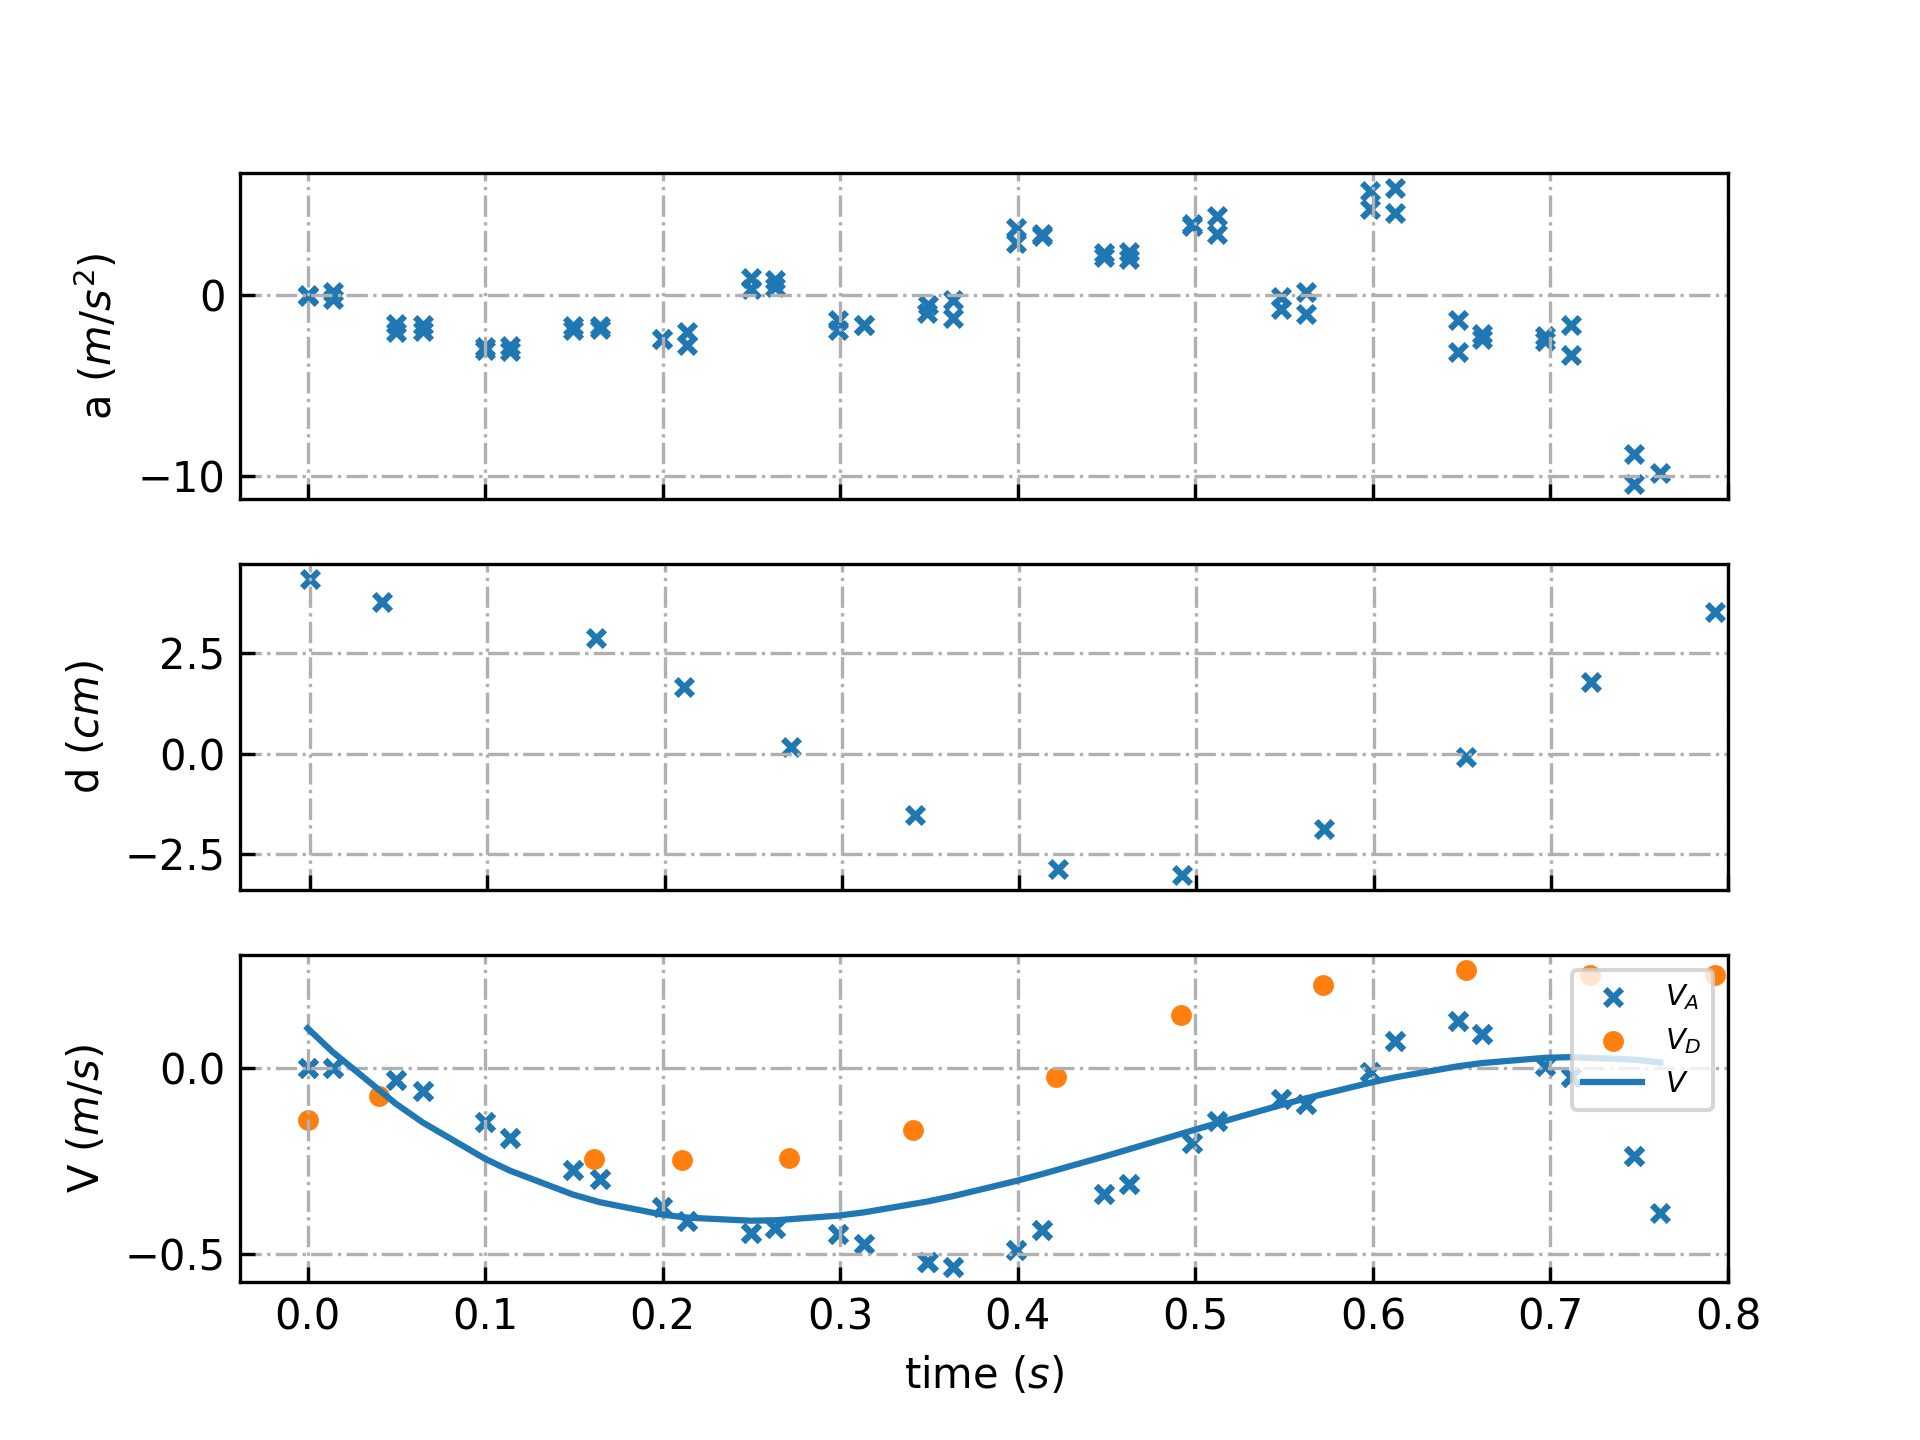
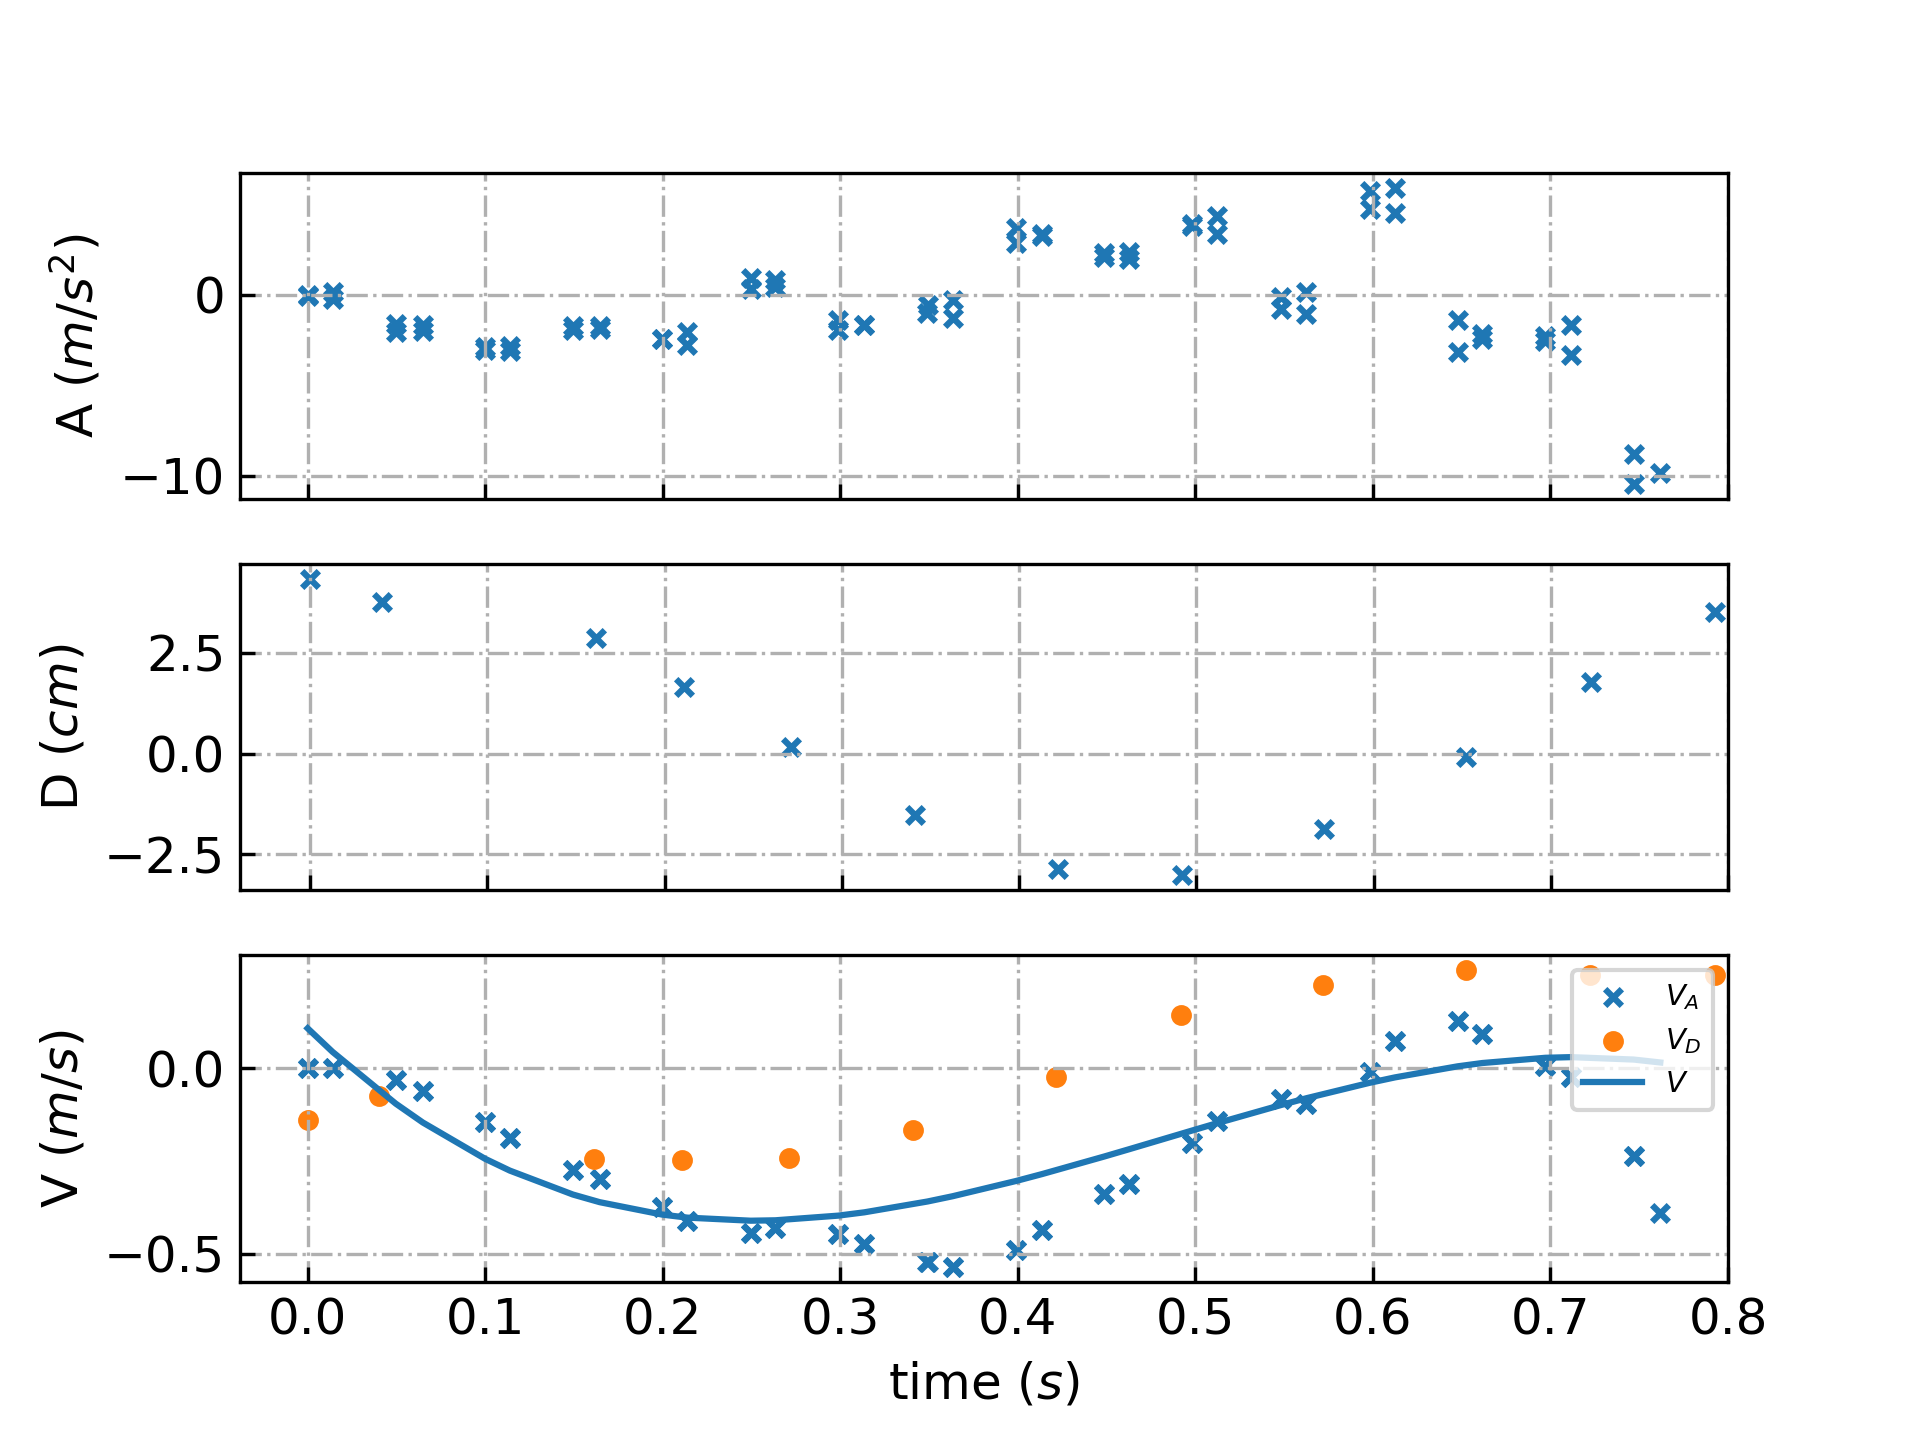
figure formatting

diff --git a/scripts/velocity_calc.py b/scripts/velocity_calc.py
@@ -127,6 +127,7 @@ class velocity_calc:
         xLimRight = 0.8
         gridStyle = "dashdot"
         saveFl = True
+        plt.rc('font', size=12)
         global axs
         fig, axs = plt.subplots(3)
         count=0
@@ -247,7 +248,7 @@ class velocity_calc:
         # ploting data
         est_model = np.poly1d(np.polyfit(np.array(acc_tstamp[:n_acc]+pos_tstamp[:n_pos]), np.array(vel_acc+vel_pos), 3))
         vel_est_plot = [[i,j] for i,j in zip(acc_tstamp[:n_acc], est_model(acc_tstamp[:n_acc]))]
-        self.plot([acc_plot[:], pos_plot[:], vel_acc_plot[:], vel_pos_plot[:], vel_est_plot[:]], [r"a ($m/s^2$)", r"d ($cm$)", "velocity_acc", "velocity_pos", "velocity_estimate"])
+        self.plot([acc_plot[:], pos_plot[:], vel_acc_plot[:], vel_pos_plot[:], vel_est_plot[:]], [r"A ($m/s^2$)", r"D ($cm$)", "velocity_acc", "velocity_pos", "velocity_estimate"])
 
 if __name__=="__main__":
     try:
